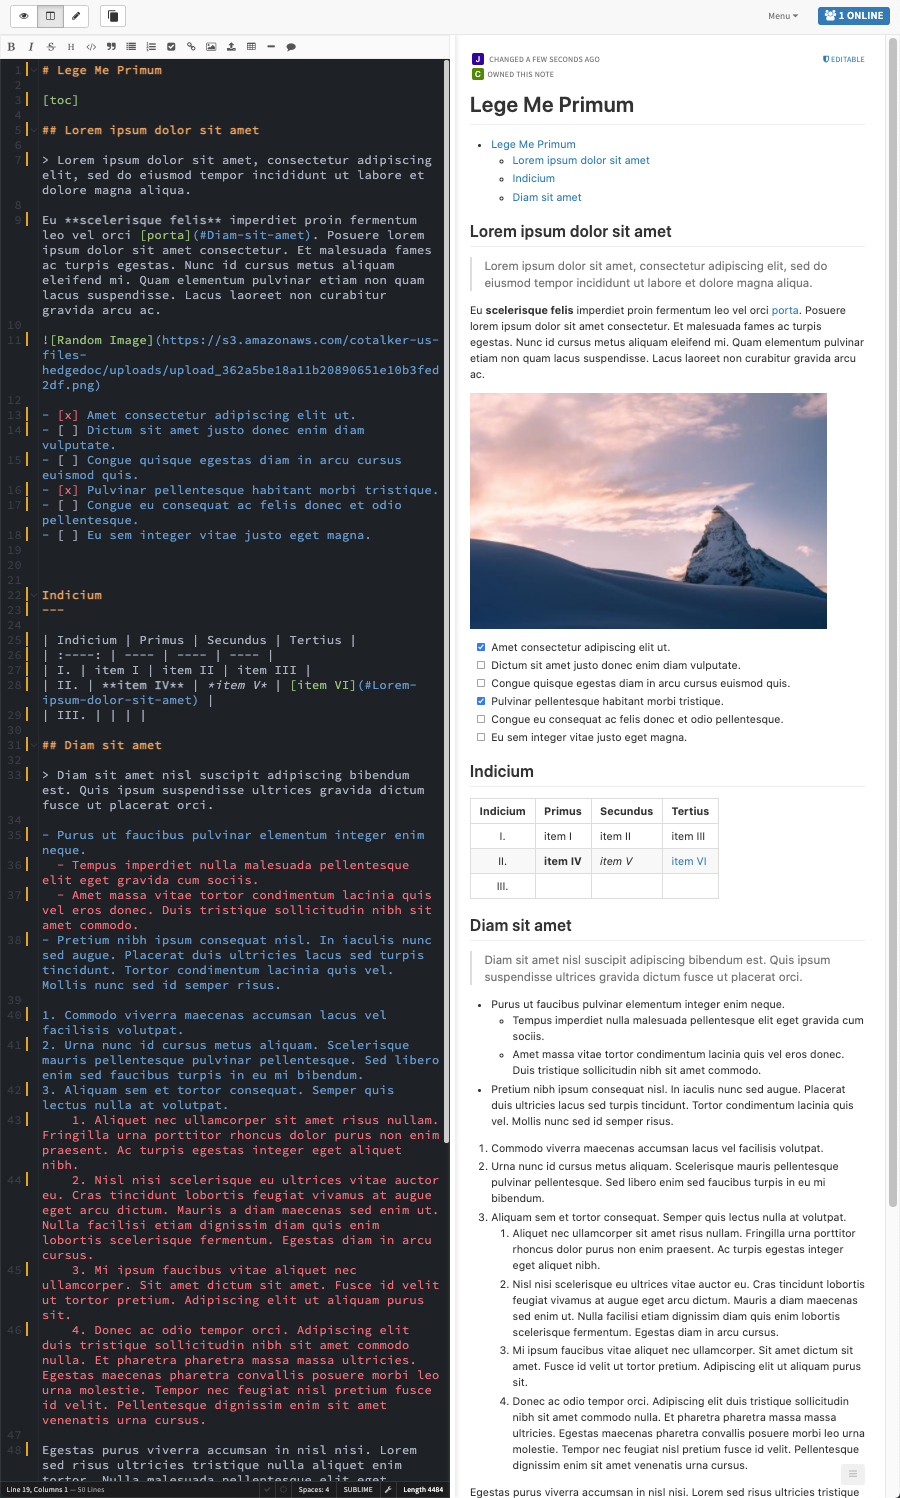
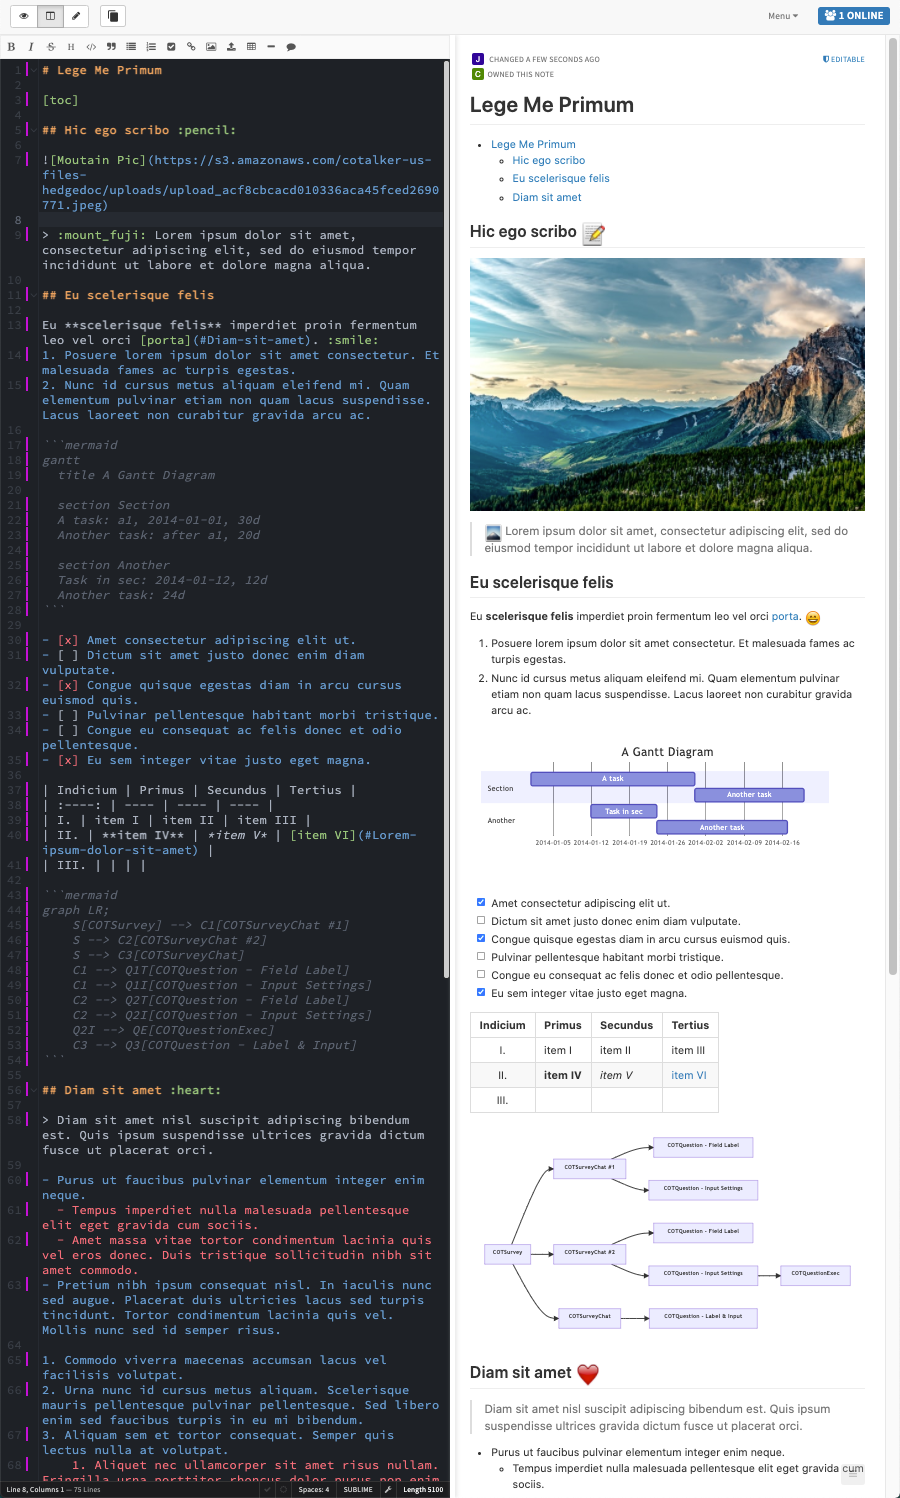
Notes remake

diff --git a/docs/documentation/client/notes.md b/docs/documentation/client/notes.md
@@ -11,11 +11,15 @@ import Mermaid from '@theme/Mermaid';
 
 ## Overview {#overview}
 
-Easily create notes to share and edit in real-time among other users within the Cotalker environment. With _Notes_, users can collaborate with all sorts of information to build your company's knowledge base.
+Easily create notes to share and edit in real-time among other users within the Cotalker environment. Thanks to our powerful [search tool](/docs/documentation/client/client_search#shared-documents), _task notes_ can be made accessible to all users, thus creating a dynamic knowledge base for your company that all users can help build.
 
 The _Notes_ tool uses [markdown syntax](/docs/documentation/client/notes_markdown) to help you focus on writing the text and forget about formatting. 
 
-Notes can be shared through hyperlinks, the _Notes_ [dashboard](/docs/documentation/client/notes#dashboard), [tasks](#task-notes), and even [surveys](#survey-notes).
+Notes can be shared and accessed through [tasks](#task-notes), hyperlinks, the _Notes_ [dashboard](/docs/documentation/client/notes#dashboard), and even [surveys](#survey-notes).
+
+:::info
+While _notes_ are fully available in _tasks_, the _Notes dashboard_ is still in its _alpha_ phase and is subject to change.
+:::
 
 <div className="alert alert--secondary">
 
@@ -31,6 +35,152 @@ Go to our [Markdown Syntax](/docs/documentation/client/notes_markdown) page for 
 
 </div>
 <br/>
+
+## Task Notes {#task-notes}
+_Task notes_ are a great way to register and share relevant information concerning your individual tasks. You can even create _tasks notes_ with the goal of collecting information and building your knowledge base. 
+
+All _task notes_ are indexed for [search queries](/docs/documentation/client/client_search#shared-documents), making it easier to find the information you need. 
+
+Create as many _notes_ as you want within your _tasks_.
+
+### Creating Task Notes {#create-task-note}
+To create a _task note_, go to the _task's details_, either from the [_channel workspace_](/docs/documentation/client/taskview#tasks-channel) or [_task view_](/docs/documentation/client/taskview#task-view). 
+
+Here are three ways to create a note within a task:
+
+- _the Channel Workspace's task panel_
+  
+  <img alt="associate note to task 1" className="img_sizing item shadow--tl" src={useBaseUrl('img/notes_11.png')} />
+  <br/>
+
+- _the Task View_
+  <img alt="associate note to task 2" className="img_sizing item shadow--tl" src={useBaseUrl('img/notes_12.png')} />
+  <br/>
+
+- _the Task View_
+  <img alt="associate note to task 3" className="img_sizing item shadow--tl" src={useBaseUrl('img/notes_13.png')} />
+  <br/>
+
+:::note
+Only new notes can be associated directly to a task. To associate existing notes to a task, use the API tools.
+:::
+
+### Accessing Task Notes {#accessing-task-notes}
+
+There are multiple ways to access a _task note_.
+
+From the _Task View_:
+
+<img alt="task notes 0" className="img_sizing item shadow--tl" src={useBaseUrl('img/notes_19.png')} />
+<br/>
+
+From _Task Details_:
+
+<img alt="task notes 1" className="img_sizing item shadow--tl" src={useBaseUrl('img/notes_17.png')} />
+<br/>
+<br/>
+
+From _Task Files_:
+
+<img alt="task notes 2" className="img_sizing item shadow--tl" src={useBaseUrl('img/notes_18.png')} />
+<br/>
+
+<div className="alert alert--secondary">
+
+## Notes Layout & Toolbar {#layout-toolbar}
+The Notes tool can appear either within the task view or as an individual web browser tab. In both cases, its layout and tools are distributed in a similar manner. Below is an example and description of the layout.
+
+<div className="text-center">
+<img alt="notes layout" className="img_sizing item shadow--tl" src={useBaseUrl('img/notes_06.png')} />
+
+[1. Main Toolbar](#main-notes-toolbar) – [2. Network Tools](#network-toolbar) – [3. Editor](#editor) – [4. Document View](#doc-view)
+
+</div>
+<br/>
+
+---
+
+### 1. Main Toolbar {#main-notes-toolbar}
+
+<img alt="main toolbar" className="img_sizing_small item shadow--tl" src={useBaseUrl('img/notes_07.png')} />
+<br/>
+
+<div className="padding-left--lg">
+
+1. **Edit**: See only the editor.
+2. **View**: See only the result.
+3. **Both**: See both in split view.
+4. **Copy**: Copy link to clipboard.
+5. **Pop-out**: Open note in new tab.
+
+</div>
+<br/>
+
+### 2. Network Tools {#network-toolbar}
+
+<img alt="secondary toolbar" className="img_sizing_small item shadow--tl" src={useBaseUrl('img/notes_09.png')} />
+<br/>
+
+<div className="padding-left--lg">
+
+1. **Menu**: See revision history.
+2. **Online**: See contributing online users.
+
+</div>
+<br/>
+
+### 3. Editor {#editor}
+
+<img alt="editor" className="img_sizing item shadow--tl" src={useBaseUrl('img/notes_08.png')} />
+<br/>
+
+<div className="padding-left--lg">
+
+1. **Toolbar**: Formatting tools that add [markdown syntax](/docs/documentation/client/notes_markdown) to text.
+2. **Write pad**: Text in [markdown syntax](/docs/documentation/client/notes_markdown) written here.
+3. **Status bar**: Note stats, Spell Checker, Night Mode, Indent, Editor, and other options.
+
+</div>
+<br/>
+
+### 4. Document View {#doc-view}
+
+<img alt="doc view" className="img_sizing item shadow--tl" src={useBaseUrl('img/notes_10.png')} />
+<br/>
+
+<div className="padding-left--lg">
+
+1. **History summary**: Last change and ownership
+2. **Navegation menu**: Automatically created with document # headings
+3. **Document**: Formatted output for users to read.
+
+</div>
+<br/>
+
+</div>
+<br/>
+
+## Adding Notes on a Survey Form {#survey-notes}
+Some survey forms will give you the option to attach a note. You can either create a new note or add an existing one by indicating its URL or Id. Below are some examples.
+
+- _Submit a new note:_
+
+  <img alt="add survey note 1" className="img_sizing_small item shadow--tl" src={useBaseUrl('img/notes_15.png')} />
+  <br/>
+
+- _Submit an existing note:_
+
+  <img alt="add note survey 2" className="img_sizing_small item shadow--tl" src={useBaseUrl('img/notes_16.png')} />
+  <br/>
+
+:::tip
+- To obtain an existing note's URL, click the copy icon in the [Notes Toolbar](#main-notes-toolbar) or copy it from your browser's address bar.
+- To obtain an existing note's Id, find it among the string in your browser's address bar.
+:::
+
+
+-----
+<span className="hero__subtitle">⚠ The Notes Dashboard is still in its alpha phase.</span>
 
 ## Accessing Notes Dashboard {#dashboard}
 
@@ -71,7 +221,7 @@ On every **note card**, you have access to the following options:
 </div>
 <br/>
 
-## Creating Notes {#create-note}
+## Creating Notes from the Dashboard{#create-note}
 
 To create a note, follow these simple steps:
 
@@ -81,123 +231,3 @@ To create a note, follow these simple steps:
 1. From the [Notes Dashboard](#layout), press the <span className="badge badge--primary">+</span> icon in the lower-right corner.
 2. In the pop-up window, fill in the details for the new note.
 3. To add content to your new note, choose the note from the [Notes Dashboard](#layout).
-
-<div className="alert alert--secondary">
-
-## Notes Layout & Toolbar {#layout-toolbar}
-The Notes tool can appear either as a pop-up window or an individual tab. In both cases, its layout and tools are distributed in the same manner. Below is an example and description of the layout.
-
-<div className="text-center">
-<img alt="notes layout" className="img_sizing item shadow--tl" src={useBaseUrl('img/notes_06.png')} />
-
-[1. Main Toolbar](#main-notes-toolbar) – [2. Network Tools](#network-toolbar) – [3. Editor](#editor) – [4. Document View](#doc-view)
-
-</div>
-<br/>
-
----
-
-### 1. Main Toolbar {#main-notes-toolbar}
-
-<img alt="main toolbar" className="img_sizing_small item shadow--tl" src={useBaseUrl('img/notes_07.png')} />
-<br/>
-
-<div className="padding-left--lg">
-
-1. **Edit**: See only the editor.
-2. **View**: See only the result.
-3. **Both**: See both in split view.
-4. **Copy**: Copy link to clipboard.
-5. **Pop-out**: Open note in new tab.
-
-</div>
-<br/>
-
-### 2. Network Tools {#network-toolbar}
-
-<img alt="secondary toolbar" className="img_sizing_small item shadow--tl" src={useBaseUrl('img/notes_09.png')} />
-<br/>
-
-<div className="padding-left--lg">
-
-1. **Menu**: See revision history.
-2. **Online**: See online contributing users.
-
-</div>
-<br/>
-
-### 3. Editor {#editor}
-
-<img alt="editor" className="img_sizing item shadow--tl" src={useBaseUrl('img/notes_08.png')} />
-<br/>
-
-<div className="padding-left--lg">
-
-1. **Toolbar**: Formatting tools that add [markdown syntax](/docs/documentation/client/notes_markdown) to text.
-2. **Write pad**: Text in [markdown syntax](/docs/documentation/client/notes_markdown) written here.
-3. **Status bar**: Note stats, Spell Checker, Night Mode, Indent, Editor, and other options.
-
-</div>
-<br/>
-
-### 4. Document View {#doc-view}
-
-<img alt="doc view" className="img_sizing item shadow--tl" src={useBaseUrl('img/notes_10.png')} />
-<br/>
-
-<div className="padding-left--lg">
-
-1. **History summary**: Last change and ownership
-2. **Navegation menu**: Automatically created with document # headings
-3. **Document**: Formatted output for users to read.
-
-</div>
-<br/>
-
-</div>
-<br/>
-
-## Task Notes {#task-notes}
-You can associate _notes_ to your _tasks_ to keep and share relevant information. 
-
-:::tip
-[_Search queries_](/docs/documentation/client/client_search#shared-documents) can also search through _notes_ associated with _tasks_, thus creating a dynamic knowledge base that all users can access and help build.
-:::
-
-To associate a _note_ to a _task_, you must first create it within the _task_. There are three ways in which you can do this:
-
-- _the Channel Workspace's task panel_
-  
-  <img alt="associate note to task 1" className="img_sizing item shadow--tl" src={useBaseUrl('img/notes_11.png')} />
-  <br/>
-
-- _the task view_
-  <img alt="associate note to task 2" className="img_sizing item shadow--tl" src={useBaseUrl('img/notes_12.png')} />
-  <br/>
-
-- _the task view_
-  <img alt="associate note to task 3" className="img_sizing item shadow--tl" src={useBaseUrl('img/notes_13.png')} />
-  <br/>
-
-There are multiple ways to access a task note. Here are some examples:
-
-<img alt="task notes" className="img_sizing item shadow--tl" src={useBaseUrl('img/notes_14.gif')} />
-<br/>
-
-## Adding Notes on a Survey Form {#survey-notes}
-Some survey forms will give you the option to attach a note. You can either create a new note or add an existing one by indicating its URL or Id. Below are some examples.
-
-- _Submit a new note:_
-
-  <img alt="add survey note 1" className="img_sizing_small item shadow--tl" src={useBaseUrl('img/notes_15.png')} />
-  <br/>
-
-- _Submit an existing note:_
-
-  <img alt="add note survey 2" className="img_sizing_small item shadow--tl" src={useBaseUrl('img/notes_16.png')} />
-  <br/>
-
-:::tip
-- To obtain an existing note's URL, click the copy icon in the [Notes Toolbar](#main-notes-toolbar) or copy it from your browser's address bar.
-- To obtain an existing note's Id, find it among the string in your browser's address bar.
-:::

diff --git a/docs/documentation/client/notes_markdown.md b/docs/documentation/client/notes_markdown.md
@@ -11,9 +11,9 @@ import Mermaid from '@theme/Mermaid';
 
 ## Overview  {#markdown}
 
-Editing _notes_ requires using _markdown_ – a simple syntax used for automatically formatting documents. It's easy to use. You just have to remember some of the character-syntax commands. Once you get the hang of it, you'll end up liking markdown more than regular word processing, especially when you need to make quick notes and not worry much about formatting.
+Editing [_notes_](/docs/documentation/client/notes) requires using _markdown_ – a simple syntax used for automatically formatting documents. It's easy to use. You just have to remember some of the character-syntax commands. With markdown, you can format text, insert images, add links, create diagrams, and much more. Once you get the hang of it, you'll end up liking markdown more than regular word processing, especially when you need to make quick notes and not worry much about formatting.
 
-To make things easier, the [**editor**](/docs/documentation/client/notes#editor) provides auto-complete hints for markdown. The [editor toolbar](/docs/documentation/client/notes#editor) also helps out by inserting the markdown syntax you need by clicking on the corresponding icon.
+To make things easier, the [**note editor**](/docs/documentation/client/notes#editor) provides auto-complete hints for markdown. The [editor toolbar](/docs/documentation/client/notes#editor) also helps out by inserting the markdown syntax you need by clicking on the corresponding icon.
 
 :::note
 For more information about markdown syntax, visit the free and open-source _Markdown Guide_: 
@@ -354,6 +354,20 @@ _Graphviz_
       BusinessManager->ITManager
       {rank=same;ITManager Teacher1 Teacher2} // Put them on the same level
     }
+    ```
+
+_Mermaid_
+    ```mermaid
+    gantt
+      title A Gantt Diagram
+    
+      section Section
+      A task: a1, 2014-01-01, 30d
+      Another task: after a1, 20d
+      
+      section Another
+      Task in sec: 2014-01-12, 12d
+      Another task: 24d
     ```
 
 :::

diff --git a/blog/2021-10-02-notes-tool.md b/blog/2021-10-02-notes-tool.md
@@ -1,5 +1,5 @@
 ---
-title: New Notes Tool
+title: Try out the New Notes Tool
 description: Easily create notes that you can share and edit in real-time with other users on the Cotalker platform. With Notes, users can collaborate with all sorts of information to build your company's knowledge base. The Notes tool uses markdown syntax to help you focus on writing the text and forget about formatting. Notes can be incorporated into tasks, shared through hyperlinks, managed in the Notes dashboard, and submitted through surveys. Furthermore, notes associated with tasks are included in search queries, making your shared knowledge accessible to all users within your company's Cotalker platform.
 image: img/updates/update_notes.png
 draft: false
@@ -30,6 +30,8 @@ Build knowledge collaboratively
 📝 Easily create _notes_ that you can share and edit in real-time with other users on the Cotalker platform. With **Notes**, users can collaborate with all sorts of information to build your company's knowledge base. 
 
 The **Notes** tool uses [markdown syntax](/docs/documentation/client/notes_markdown) to help you focus on writing the text and forget about formatting. _Notes_ can be incorporated into _tasks_, shared through hyperlinks, managed in the _Notes dashboard_, and submitted through _surveys_. Furthermore, _notes_ associated with _tasks_ are included in _search queries_, making your shared knowledge accessible to all users within your company's Cotalker platform.
+
+**Notice:** While _notes_ are fully available in _tasks_, the _Notes dashboard_ is still in its _alpha_ phase and is subject to change.
 
 </div>
 <div className="card__footer text-center align-padding-center">
